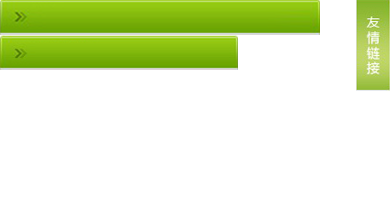
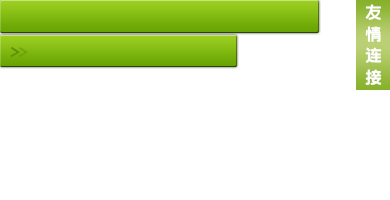
首页标题栏修改    more更多

Changed region(s): [[0.0, 0.0, 0.8308, 0.36], [0.8923, 0.0, 1.0, 0.48], [0.0308, 0.06, 0.0615, 0.12]]

diff --git a/catalog/view/theme/default/stylesheet/stylesheet.css b/catalog/view/theme/default/stylesheet/stylesheet.css
@@ -1663,10 +1663,10 @@ a.button:hover, input.button:hover {
 /*//////ADD////////**/
 .home_layout_1 { width: 320px; height: 200px; background: #eee; float: left; margin-right: 6px;}
 .item_1 { width: 315px; background: #fff; height: 157px; margin: 0 auto;}
-.home_layout_1   h3{ background: url("../image/layout.png") 0 0  #71A906; padding: 0; margin: 0; height: 36px; line-height: 33px; }
+.home_layout_1   h3{ background: url("../image/layout.png") 0 0 ; padding: 0; margin: 0; height: 34px; line-height: 33px; }
 .home_layout_1   h3 b  ,.item3  h3 b{ padding-left:  33px;}
 .home_layout_1   h3 b , .home_layout_1      h3 b a   ,.item3 b,.item3 b a     { color: #fff;}
-.home_layout_1  .more { text-indent: -999999999px; display: block; float: right; width: 60px; height: 30px; }
+.home_layout_1  .more {display: block; float: right; width: 60px; height: 30px; color:#ffffff }
 .items { margin-bottom: 3px; }
 .items  ,  .items  table  td { line-height: 160%;}
 .fix{ clear: both; height: 5px;}
